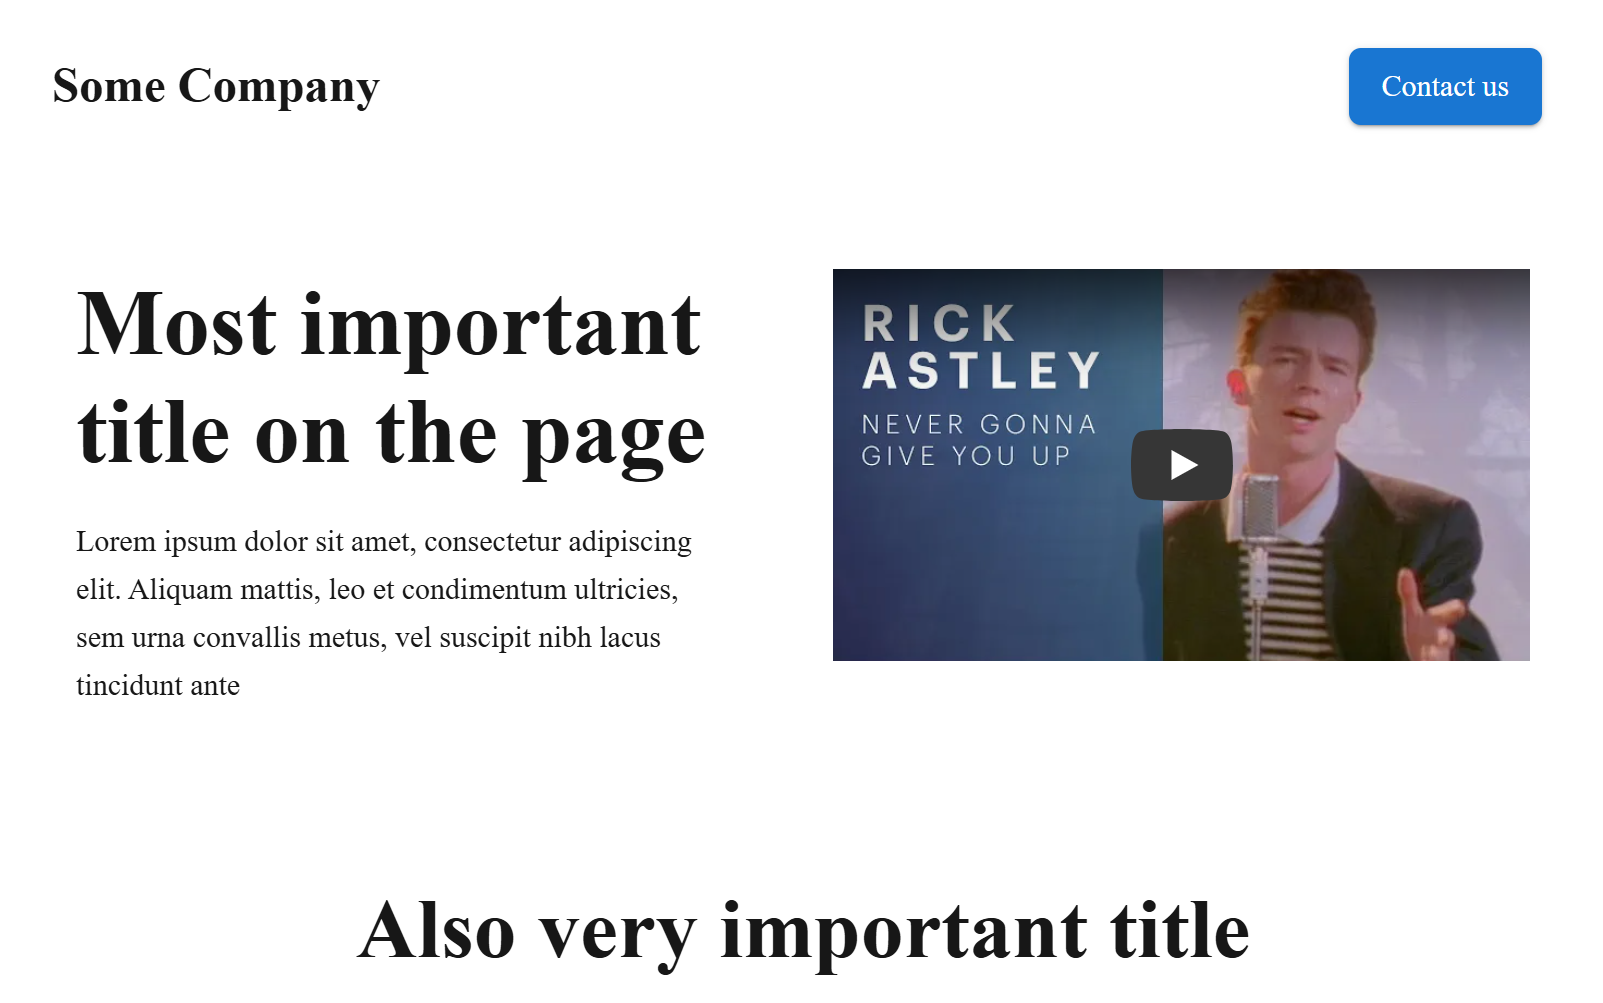
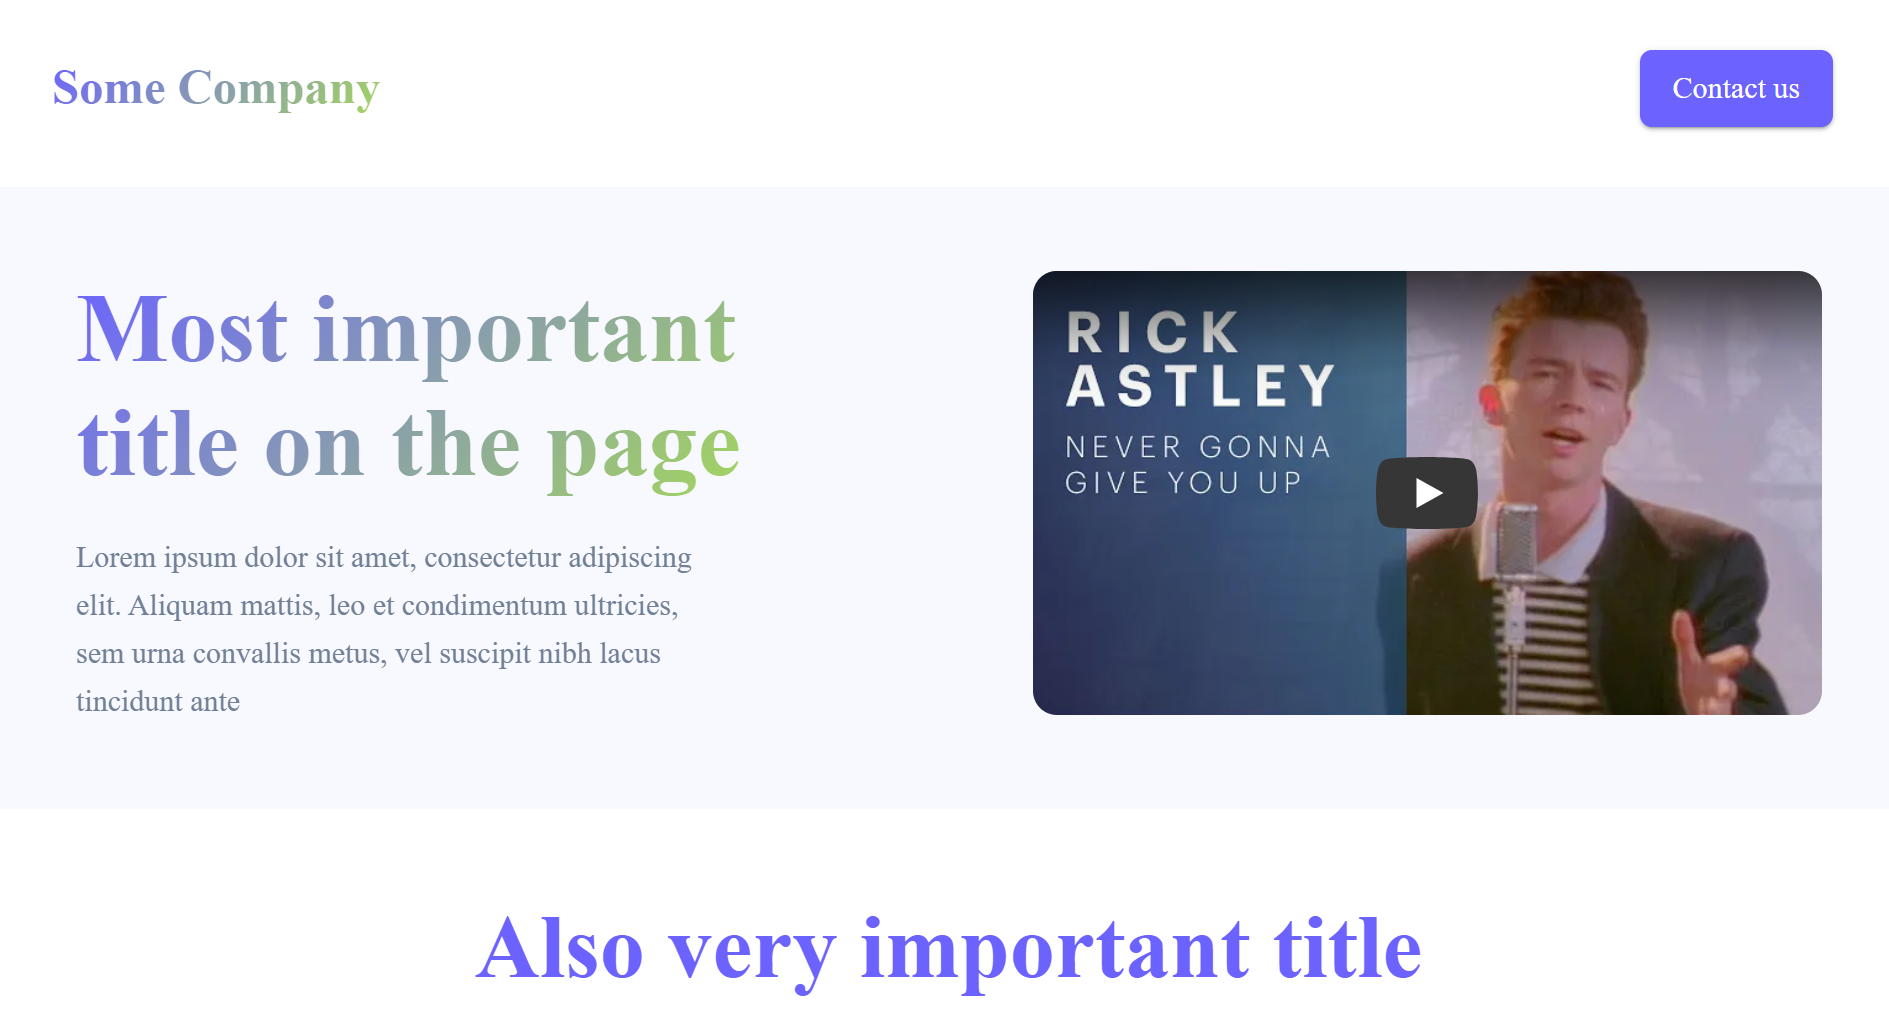
fix image and readme

diff --git a/README.md b/README.md
@@ -20,50 +20,49 @@
 ## Установка проекта
 
 1. Клонируйте репозиторий:
-   \`\`\`bash
-   git clone https://github.com/DashaList/some-company-app.git
-   cd some-company-app
-   \`\`\`
+  ```
+  git clone https://github.com/DashaList/some-company-app.git
+  cd some-company-app
+  ```
 
 2. Установите зависимости:
-   \`\`\`bash
-   npm install
+  ```
+  npm install
 
-   # или
+  # или
 
-   yarn install
-   \`\`\`
+  yarn install
+  ```
 
 3. Запустите проект в режиме разработки:
-   \`\`\`bash
-   npm run dev
+  ```npm run dev
 
-   # или
+  # или
 
-   yarn dev
-   \`\`\`
+  yarn dev
+  ```
 
 4. Откройте [http://localhost:3000](http://localhost:3000) в браузере.
 
 ## Структура проекта
 
-\`\`\`
-some-company-app/
-├── netlify/  
-│ └── functions/        # Serverless functions для backend
-├── src/
-│ ├── app/              # App Router
-│ │ ├── contact-us/     # Страница с формой
-│ │ ├── layout.tsx      # Layout страниц (header и footer)
-│ │ └── page.tsx        # Главная страница
-│ ├── components/       # React компоненты
-│ ├── actions.ts        # Функции для обработки форм
-│ ├── api.ts            # Функции для HTTP-запросов
-│ ├── globalStyles.ts   # Глобальные стили
-│ ├── theme.ts          # Кастомизация темы MUI компонентов
-│ └── types.ts          # Типы
-└── package.json        # Зависимости проекта
-\`\`\`
+```
+  some-company-app/
+  ├── netlify/  
+  │ └── functions/        # Serverless functions для backend
+  ├── src/
+  │ ├── app/              # App Router
+  │ │ ├── contact-us/     # Страница с формой
+  │ │ ├── layout.tsx      # Layout страниц (header и footer)
+  │ │ └── page.tsx        # Главная страница
+  │ ├── components/       # React компоненты
+  │ ├── actions.ts        # Функции для обработки форм
+  │ ├── api.ts            # Функции для HTTP-запросов
+  │ ├── globalStyles.ts   # Глобальные стили
+  │ ├── theme.ts          # Кастомизация темы MUI компонентов
+  │ └── types.ts          # Типы
+  └── package.json        # Зависимости проекта
+```
 
 ## Стилизация
 
@@ -79,12 +78,12 @@ some-company-app/
 
 1. **Метаданные**: Использование компонента `Metadata` из Next.js для управления заголовками и описаниями страниц.
 
-\`\`\`typescript
+```typescript
 export const metadata: Metadata = {
-title: 'Some Company',
-description: 'Some Company offers professional services with quality results.',
+  title: 'Some Company',
+  description: 'Some Company offers professional services with quality results.',
 }
-\`\`\`
+```
 
 2. **Семантическая разметка**: Использование правильных HTML5 тегов для улучшения понимания контента поисковыми системами.
 
